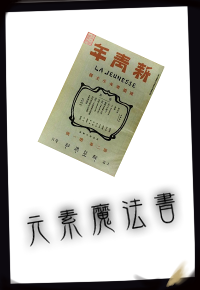
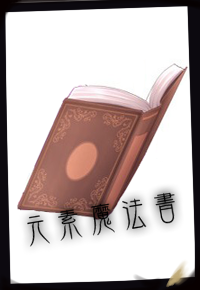
add the second skill to alice;changed magic_book images

diff --git a/src/touhou-generals.cpp b/src/touhou-generals.cpp
@@ -2252,7 +2252,7 @@ public:
     {
         events << BlockDeclare;
 
-        frequency = Frequent ;
+        frequency = Compulsory;
     }
 
     virtual bool triggerable(const ServerPlayer *target) const
@@ -2273,6 +2273,7 @@ public:
 
         room->throwCard(combat.combat);
         combat.from->addToPile("Attack",card->getId(),false);
+        combat.combat = card;
 
         player->tag["combatEffective"] = true;
 
@@ -2282,10 +2283,62 @@ public:
         player->getRoom()->sendLog(log);
         player->getRoom()->getThread()->delay();
 
+        data = QVariant::fromValue(combat);
+
         return false;
     }
 };
 
+class FolkDance: public TriggerSkill{
+public:
+    FolkDance():TriggerSkill("folkdance"){
+        events << BlockDeclared;
+    }
+
+    virtual bool triggerable(const ServerPlayer *) const{
+        return true;
+    }
+
+    virtual bool trigger(TriggerEvent event, ServerPlayer *player, QVariant &data) const{
+        CombatStruct combat = data.value<CombatStruct>();
+        if(!combat.from->hasSkill(objectName()))
+            return false;
+        if(combat.from->askForSkillInvoke(objectName(),data)){
+            Room *room = combat.from->getRoom();
+            room->moveCardTo(combat.block, player, Player::Hand, false);
+            player->jilei(QString(combat.block->getEffectiveId()));
+            player->invoke("jilei", combat.block->getEffectIdString());
+            player->setFlags("jilei_temp");
+
+            LogMessage log;
+            log.type = "#FolkDance";
+            log.from = player;
+
+            room->sendLog(log);
+
+            const Card* block = room->askForCard(player, ".", "blockCard", false);
+            combat.block = block;
+
+            if(block){
+                combat.to->addToPile("Defense", block->getEffectiveId(), false);
+                player->tag["combatEffective"] = true;
+                if(block->getSkillName().length()>0){
+                    player->tag["Combat_Convert_From"] = block->getEffectiveId()+1;
+                    player->tag["Combat_Convert_To"] = block->toString();
+                }
+
+                LogMessage log;
+                log.type = "#chosenBlock";
+                log.from = player;
+                room->sendLog(log);
+            }
+
+            data = QVariant::fromValue(combat);
+        }
+
+        return false;
+    }
+};
 
 class MasterSpark : public OneCardViewAsSkill
 {
@@ -2634,6 +2687,7 @@ void TouhouPackage::addGenerals()
 
     General * alice = new General(this,"alice","_hrp",4,false,false,3);
     alice->addSkill(new DollMaster);
+    alice->addSkill(new FolkDance);
 
     General * marisa = new General(this,"marisa","_hrp",4,false,false,4);
     marisa->addSkill(new MasterSpark);

diff --git a/src/touhou-equips.cpp b/src/touhou-equips.cpp
@@ -265,6 +265,7 @@ public:
 
         room->throwCard(combat.combat);
         combat.from->addToPile("Attack",card->getId(),false);
+        combat.combat = card;
 
         player->tag["combatEffective"] = true;
 
@@ -273,6 +274,8 @@ public:
         log.type = "#DollExchange";
         player->getRoom()->sendLog(log);
         player->getRoom()->getThread()->delay();
+
+        data = QVariant::fromValue(combat);
 
         return false;
     }
